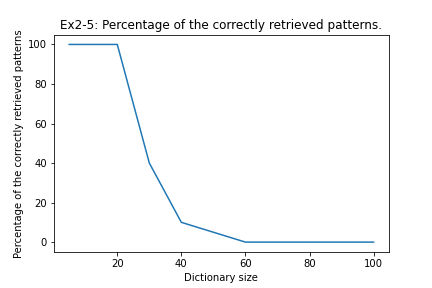
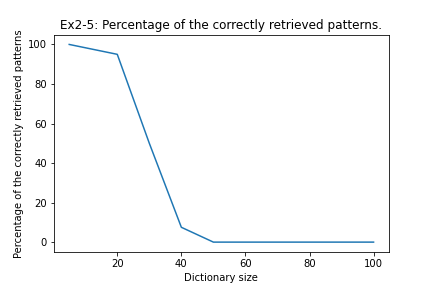
;))) :)))

Changed region(s): [[0.3009, 0.3125, 0.3912, 0.6875], [0.1505, 0.125, 0.3009, 0.3125], [0.3912, 0.6875, 0.5718, 0.8438]]

diff --git a/Part2/Hop-Project-2.py b/Part2/Hop-Project-2.py
@@ -8,7 +8,10 @@ Created on Sat Apr 30 15:28:22 2022
 import matplotlib.pyplot as plt
 import numpy as np
 from neurodynex.hopfield_network import pattern_tools, network
-
+import os
+os.chdir("..")
+from Part3.run import ex4
+os.chdir("Part2")
 
 
 def random_pattern_generator(N, a, n_patterns):
@@ -74,9 +77,10 @@ def Capacity(hamming_distance, m_vals, n_runs, flip_rate, N,
             net.run(n_runs)
             #Measuring the distance between the final state and the pattern
             correctly_retrieved+=(hamming_distance(net.state,pattern)<0.05)
+#            print(hamming_distance(net.state,pattern))
         #Calculating the percentage of the retrieved patterns.
         no_retrieved[i] = sum(correctly_retrieved)/m_vals[i]
-    Capacity=int(np.interp(0.95, np.flip(no_retrieved), np.flip(m_vals)))
+    Capacity=(np.interp(0.95, np.flip(no_retrieved), np.flip(m_vals)))
     return Capacity, no_retrieved
 
 
@@ -180,9 +184,27 @@ def ex2_8():
     plt.show()
 
 
+def ex3_5():
+    a=0.1
+    b=0
+    theta=0
+    m_vals = (1, 2, 3, 4, 5, 6, 7, 8, 9)
+    capacity=Capacity(hamming_distance, m_vals=m_vals, n_runs=n_runs, N=N, flip_rate=flip_rate, 
+                                      a=a, b=b, opt_theta=1, theta_0=theta)[1]*100
+    m_vals_2, capacity_2 = ex4(n_steps=6, n_trials=10, ex_number="5_comparison_networks", return_mean_percentages=True)
+    plt.plot(m_vals, capacity)
+    plt.plot(m_vals_2, capacity_2)
+    plt.title("Ex3-5: Comparision of the Networks in Ex2 ands in Ex3.")
+    plt.xlabel("Dictionary size")
+    plt.ylabel("Percentage of the correctly retrieved patterns")
+    plt.savefig("plots/ex3-5.png")
+    
+    plt.show()
+
 
 #ex2_5()
 #ex2_6()
 #ex2_7()
 #ex2_7_2()
 #ex2_8()
+
